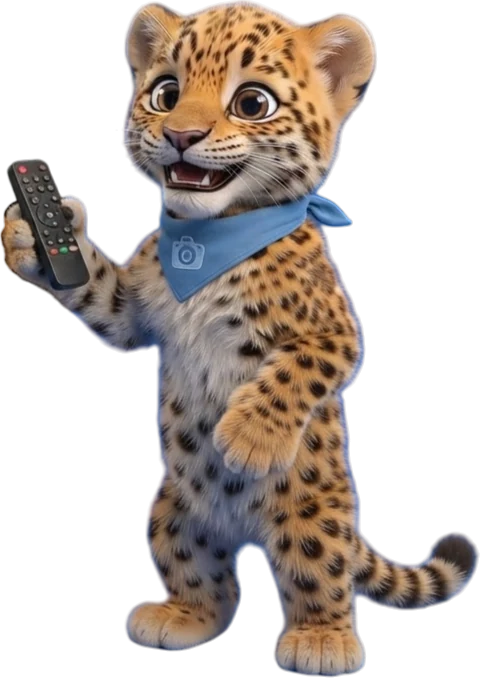
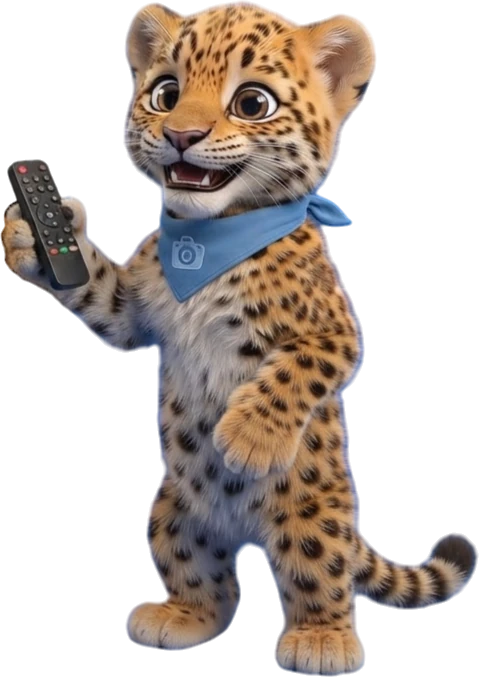
Clean mascot cutout edges, rework certificate mobile layout, fix map pin
- Cutouts kept a rim of the original studio background (68% of the
  mirror mascot's edge pixels were blue-dominant). On a phone the image
  is scaled down enough that this rim reads as a frame around the
  mascot. Rebuilt all three from the source files, replacing edge RGB
  with colour propagated from the opaque interior and tightening the
  alpha falloff. Edge is now neutral instead of blue.
- The blue glow and ground shadow are hidden below sm: at phone size
  they are proportionally large enough to look like a halo.
- Gift certificate: the mascot sat alone under the form on mobile. It
  now sits beside the heading in a two-column grid that becomes the
  existing sticky side column at lg. Column widths are set on the grid
  track, not the element, because the component's own w-full wins over
  a w-* utility passed in from outside.
- Map pointed at the street centroid from OSM, roughly 300 m off. Now
  uses the coordinates of house 27Б itself and z=17, and the embed runs
  in search mode so the building carries a labelled address card — the
  widget ignores the size letter in placemark styles, so a plain pin
  cannot be made larger. Added a link out to Yandex Maps for routing.

diff --git a/src/pages/GiftCertificatePage.tsx b/src/pages/GiftCertificatePage.tsx
@@ -95,17 +95,29 @@ export function GiftCertificatePage() {
   }
 
   return (
-    <section className="mx-auto grid max-w-5xl items-start gap-8 px-4 py-16 sm:px-6 lg:grid-cols-[minmax(0,1fr)_300px] lg:gap-16">
+    <section className="mx-auto grid max-w-5xl grid-cols-[minmax(0,1fr)_92px] items-start gap-x-4 gap-y-6 px-4 py-12 sm:grid-cols-[minmax(0,1fr)_132px] sm:px-6 lg:grid-cols-[minmax(0,1fr)_300px] lg:gap-x-16 lg:py-16">
       <div className="mx-auto w-full max-w-md">
-        <h1 className="text-center font-display text-3xl font-semibold text-blue-deep">
+        <h1 className="font-display text-2xl font-semibold text-blue-deep sm:text-3xl lg:text-center">
           Подарочный сертификат
         </h1>
-        <p className="mt-3 text-center font-body text-blue-deep/70">
+        <p className="mt-3 font-body text-blue-deep/70 lg:text-center">
           Не знаешь, что подарить? Сертификат на съёмку в «Отражении» решает эту проблему за пару
           кликов — получатель сам выберет удобное время.
         </p>
+      </div>
 
-        <form onSubmit={handleSubmit} className="mt-8 flex flex-col gap-5">
+      {/* На телефоне стоит рядом с заголовком, с lg — отдельная колонка во всю высоту */}
+      <MascotAside
+        src={giftMascotUrl}
+        alt="Леопардёнок с букетом цветов — маскот студии «Отражение»"
+        width={412}
+        height={772}
+        from="right"
+        className="lg:sticky lg:top-28 lg:row-span-2"
+      />
+
+      <div className="col-span-2 mx-auto w-full max-w-md lg:col-span-1">
+        <form onSubmit={handleSubmit} className="flex flex-col gap-5">
           <div>
             <span className={labelClass}>Длительность</span>
             {rulesLoading ? (
@@ -181,16 +193,6 @@ export function GiftCertificatePage() {
           </PrimaryButton>
         </form>
       </div>
-
-      {/* На мобильном уходит под форму, чтобы не отодвигать её за первый экран */}
-      <MascotAside
-        src={giftMascotUrl}
-        alt="Леопардёнок с букетом цветов — маскот студии «Отражение»"
-        width={412}
-        height={772}
-        from="right"
-        className="max-w-[150px] sm:max-w-[190px] lg:sticky lg:top-28 lg:max-w-none"
-      />
     </section>
   )
 }

diff --git a/src/lib/contactInfo.ts b/src/lib/contactInfo.ts
@@ -1,8 +1,9 @@
-// Координаты ул. Ленинградская, Камышлов (уровень улицы, геокодировано через
-// OpenStreetMap Nominatim) — используются для метки на карте, чтобы точка
-// была видна сразу при загрузке, без клика по лупе поиска.
-const MAP_LON = 62.710971
-const MAP_LAT = 56.839227
+// Координаты самого дома Ленинградская 27Б (геокодер Яндекс.Карт по точному
+// номеру дома). Раньше здесь была точка уровня улицы из OSM — она стояла
+// примерно в 300 м от здания, и метка показывала не тот дом.
+const MAP_LON = 62.713869
+const MAP_LAT = 56.841684
+const MAP_QUERY = 'Камышлов, улица Ленинградская, 27Б'
 
 export const CONTACT_INFO = {
   city: 'Камышлов',
@@ -10,7 +11,12 @@ export const CONTACT_INFO = {
   fullAddress: 'Камышлов, ул. Ленинградская 27Б, 2 этаж',
   instagramUrl: 'https://www.instagram.com/otrazhenie.k',
   vkUrl: 'https://vk.ru/club240229713',
+  // ll+z центрируют карту на доме, text даёт подписанную карточку адреса прямо
+  // на здании. Обычная метка (pt=...,pm2bl*) рисуется мелкой: виджет игнорирует
+  // букву размера в стиле метки, поэтому крупную точку так получить нельзя.
   mapEmbedUrl:
-    `https://yandex.ru/map-widget/v1/?ll=${MAP_LON}%2C${MAP_LAT}&z=16` +
-    `&pt=${MAP_LON},${MAP_LAT},pm2rdm`,
+    `https://yandex.ru/map-widget/v1/?ll=${MAP_LON}%2C${MAP_LAT}&z=17` +
+    `&text=${encodeURIComponent(MAP_QUERY)}`,
+  // Открыть этот же дом в Яндекс.Картах — оттуда сразу строится маршрут
+  mapLinkUrl: `https://yandex.ru/maps/?ll=${MAP_LON}%2C${MAP_LAT}&z=17&text=${encodeURIComponent(MAP_QUERY)}`,
 }

diff --git a/src/components/MascotAside.tsx b/src/components/MascotAside.tsx
@@ -29,9 +29,10 @@ export function MascotAside({
       viewport={{ once: true, margin: '-80px' }}
       transition={{ duration: reduced ? 0 : 0.8, ease: [0.16, 1, 0.3, 1] }}
     >
+      {/* На телефоне маскот мелкий, и свечение вокруг него читается как рамка — поэтому только с sm */}
       <div
         aria-hidden
-        className="pointer-events-none absolute inset-x-[-14%] top-[4%] bottom-[6%] rounded-full blur-2xl"
+        className="pointer-events-none absolute inset-x-[-14%] top-[4%] bottom-[6%] hidden rounded-full blur-2xl sm:block"
         style={{
           background:
             'radial-gradient(50% 50% at 50% 45%, rgba(58,123,255,0.18) 0%, rgba(58,123,255,0.06) 48%, rgba(58,123,255,0) 74%)',
@@ -46,14 +47,14 @@ export function MascotAside({
         loading="lazy"
         decoding="async"
         draggable={false}
-        className="relative w-full [filter:drop-shadow(0_16px_24px_rgba(10,46,107,0.2))]"
+        className="relative w-full [filter:drop-shadow(0_8px_12px_rgba(10,46,107,0.12))] sm:[filter:drop-shadow(0_16px_24px_rgba(10,46,107,0.2))]"
         animate={reduced ? undefined : { y: [0, -9, 0] }}
         transition={{ duration: 6.5, repeat: Infinity, ease: 'easeInOut' }}
       />
 
       <motion.div
         aria-hidden
-        className="pointer-events-none absolute bottom-[1%] left-1/2 h-3 w-[48%] -translate-x-1/2 rounded-[50%] bg-blue-deep/20 blur-md"
+        className="pointer-events-none absolute bottom-[1%] left-1/2 hidden h-3 w-[48%] -translate-x-1/2 rounded-[50%] bg-blue-deep/20 blur-md sm:block"
         animate={reduced ? undefined : { scaleX: [1, 0.88, 1], opacity: [0.5, 0.32, 0.5] }}
         transition={{ duration: 6.5, repeat: Infinity, ease: 'easeInOut' }}
       />

diff --git a/src/pages/AboutPage.tsx b/src/pages/AboutPage.tsx
@@ -144,17 +144,26 @@ export function AboutPage() {
               ВКонтакте
             </a>
           </div>
-          <div className="mt-6 overflow-hidden rounded-xl border border-border">
+          {/* Повыше обычного: карточке адреса на карте нужно место, иначе она перекрывает половину */}
+          <div className="mt-6 h-[360px] overflow-hidden rounded-xl border border-border sm:h-[420px]">
             <iframe
               src={CONTACT_INFO.mapEmbedUrl}
               title="Карта — как добраться до студии"
               width="100%"
-              height="320"
+              height="100%"
               loading="lazy"
               referrerPolicy="no-referrer-when-downgrade"
               style={{ border: 0, display: 'block' }}
             />
           </div>
+          <a
+            href={CONTACT_INFO.mapLinkUrl}
+            target="_blank"
+            rel="noreferrer"
+            className="mt-3 inline-block font-body text-sm font-medium text-blue-primary hover:underline"
+          >
+            Открыть в Яндекс.Картах и построить маршрут →
+          </a>
         </Reveal>
       </section>
 

diff --git a/src/components/HeroMascot.tsx b/src/components/HeroMascot.tsx
@@ -23,7 +23,7 @@ export function HeroMascot({ className }: HeroMascotProps) {
       {/* Мягкое свечение позади маскота */}
       <motion.div
         aria-hidden
-        className="pointer-events-none absolute inset-x-[-18%] top-[6%] bottom-[8%] rounded-full blur-2xl"
+        className="pointer-events-none absolute inset-x-[-18%] top-[6%] bottom-[8%] hidden rounded-full blur-2xl sm:block"
         style={{
           background:
             'radial-gradient(50% 50% at 50% 45%, rgba(58,123,255,0.22) 0%, rgba(58,123,255,0.08) 45%, rgba(58,123,255,0) 72%)',
@@ -60,7 +60,7 @@ export function HeroMascot({ className }: HeroMascotProps) {
           height={678}
           draggable={false}
           fetchPriority="high"
-          className="relative w-full [filter:drop-shadow(0_18px_26px_rgba(10,46,107,0.22))]"
+          className="relative w-full [filter:drop-shadow(0_9px_13px_rgba(10,46,107,0.13))] sm:[filter:drop-shadow(0_18px_26px_rgba(10,46,107,0.22))]"
         />
       </motion.div>
 
